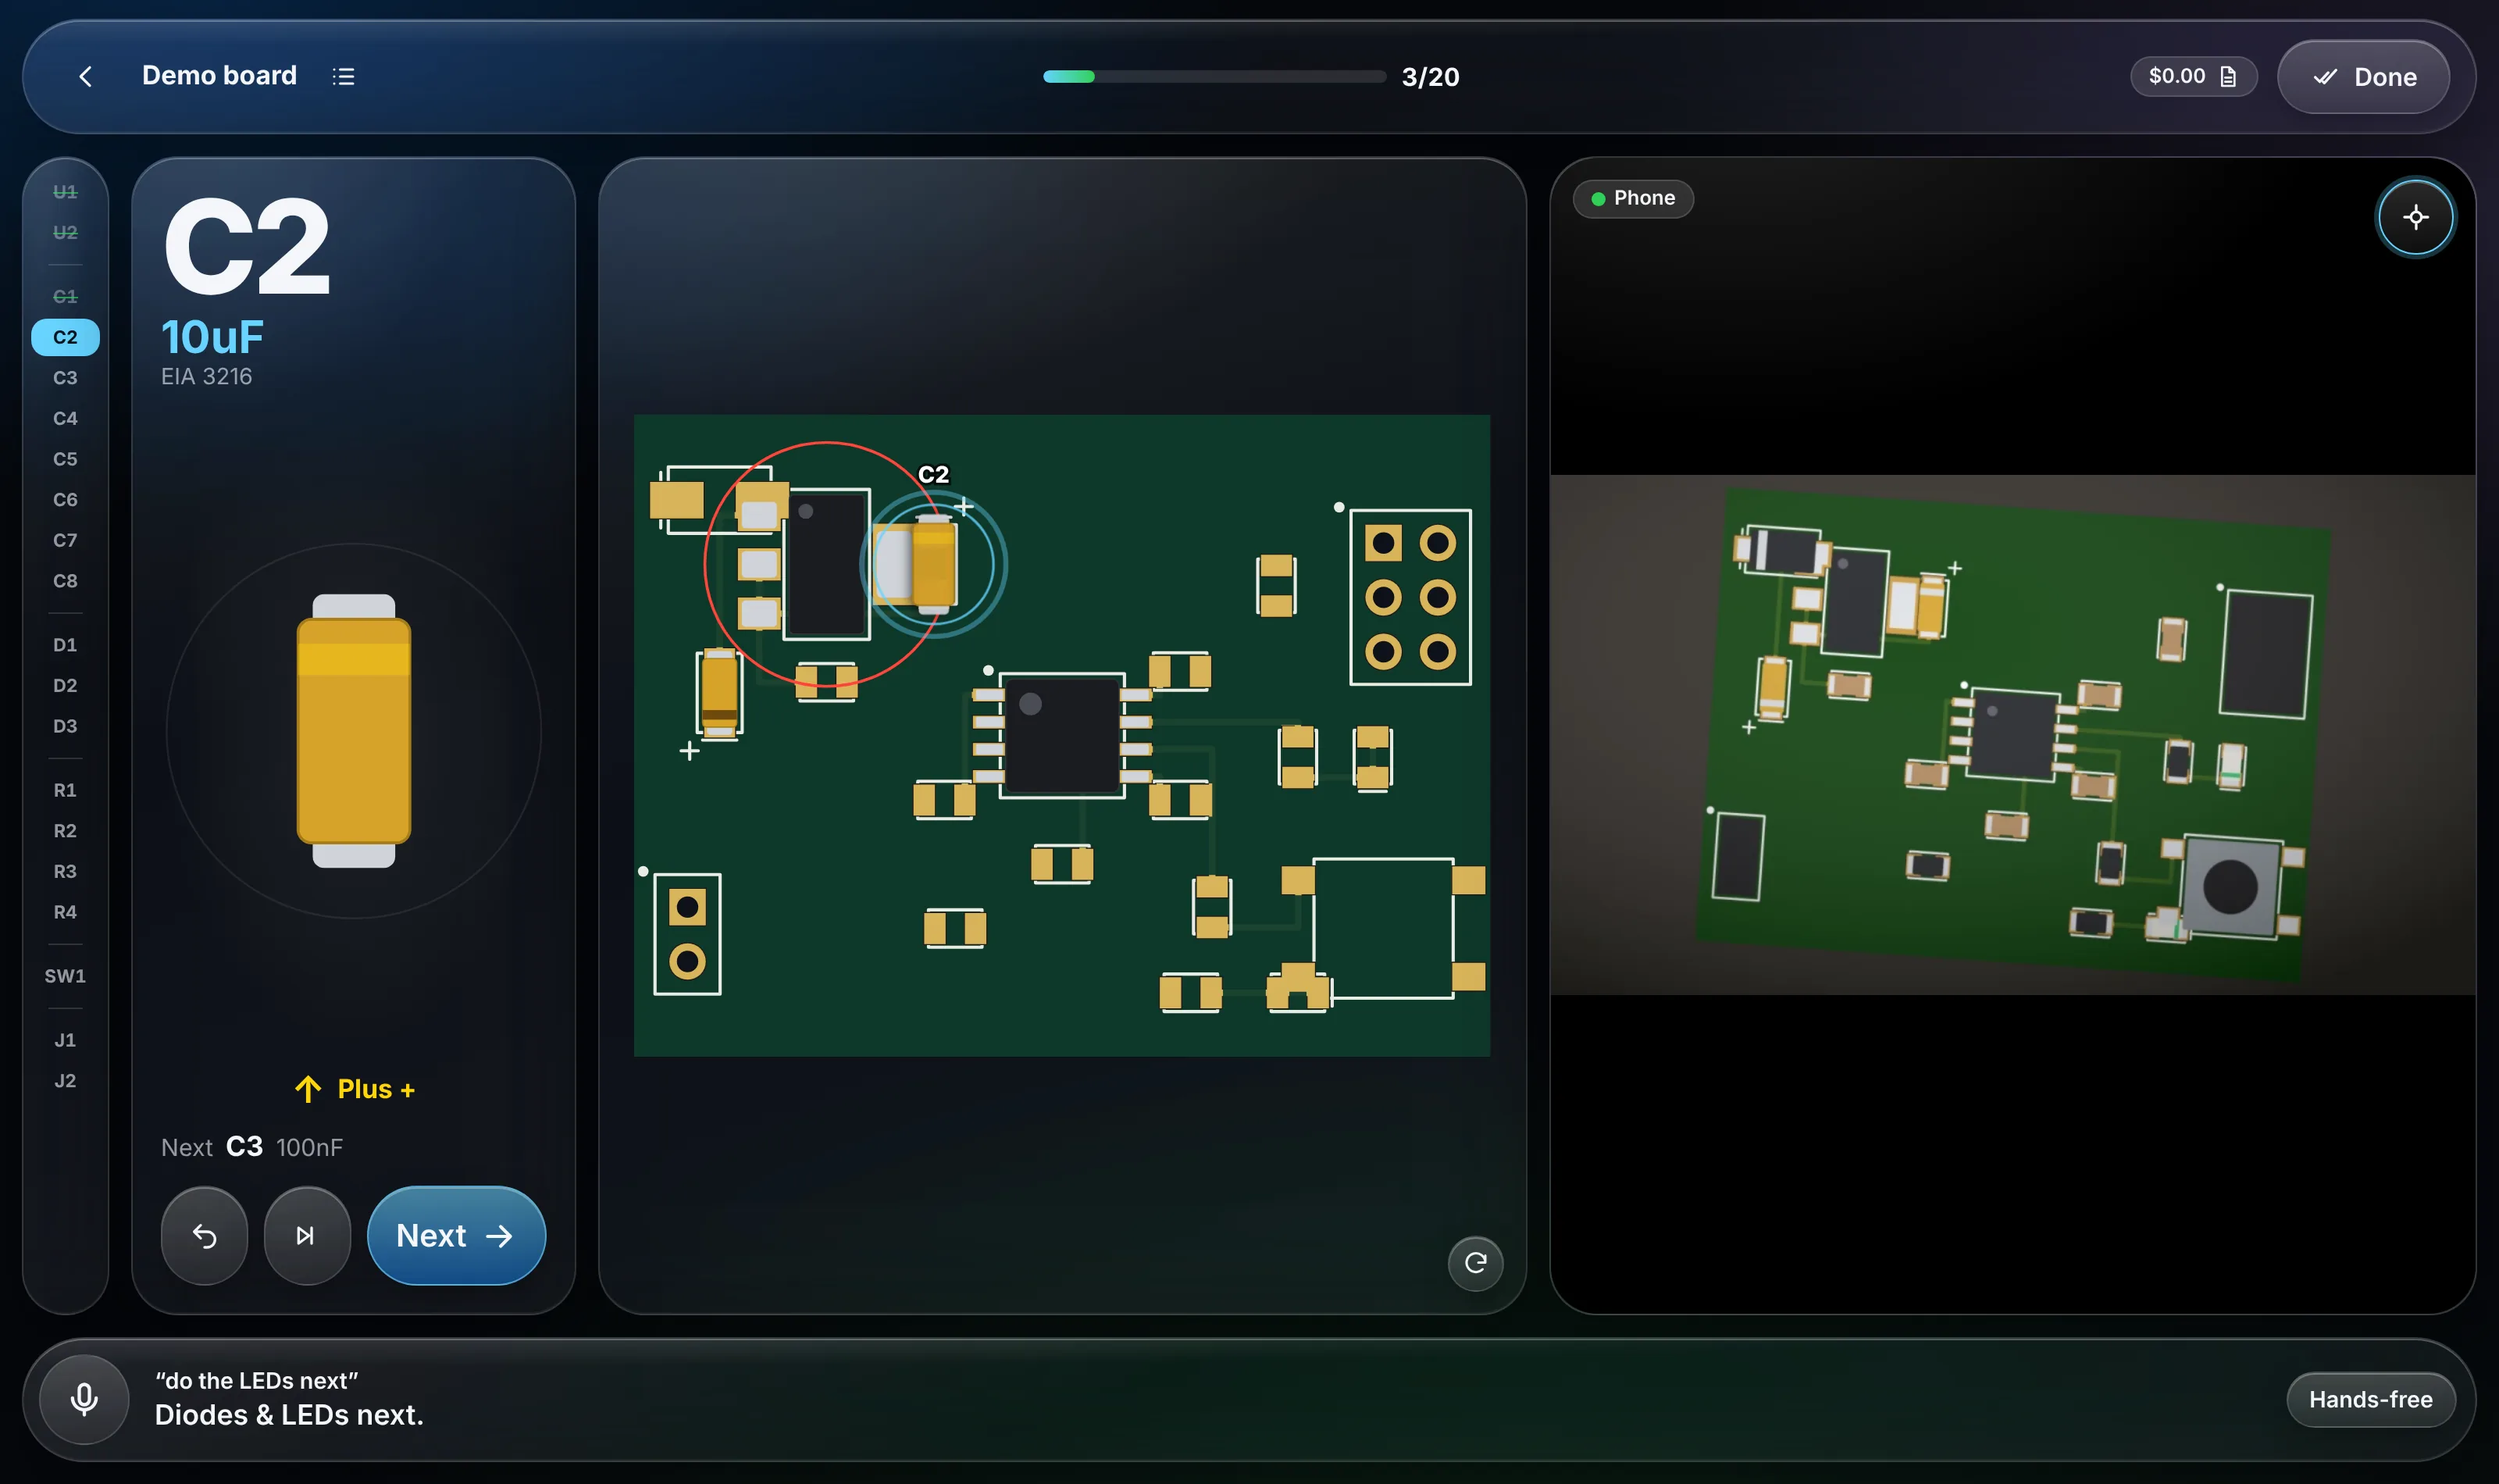
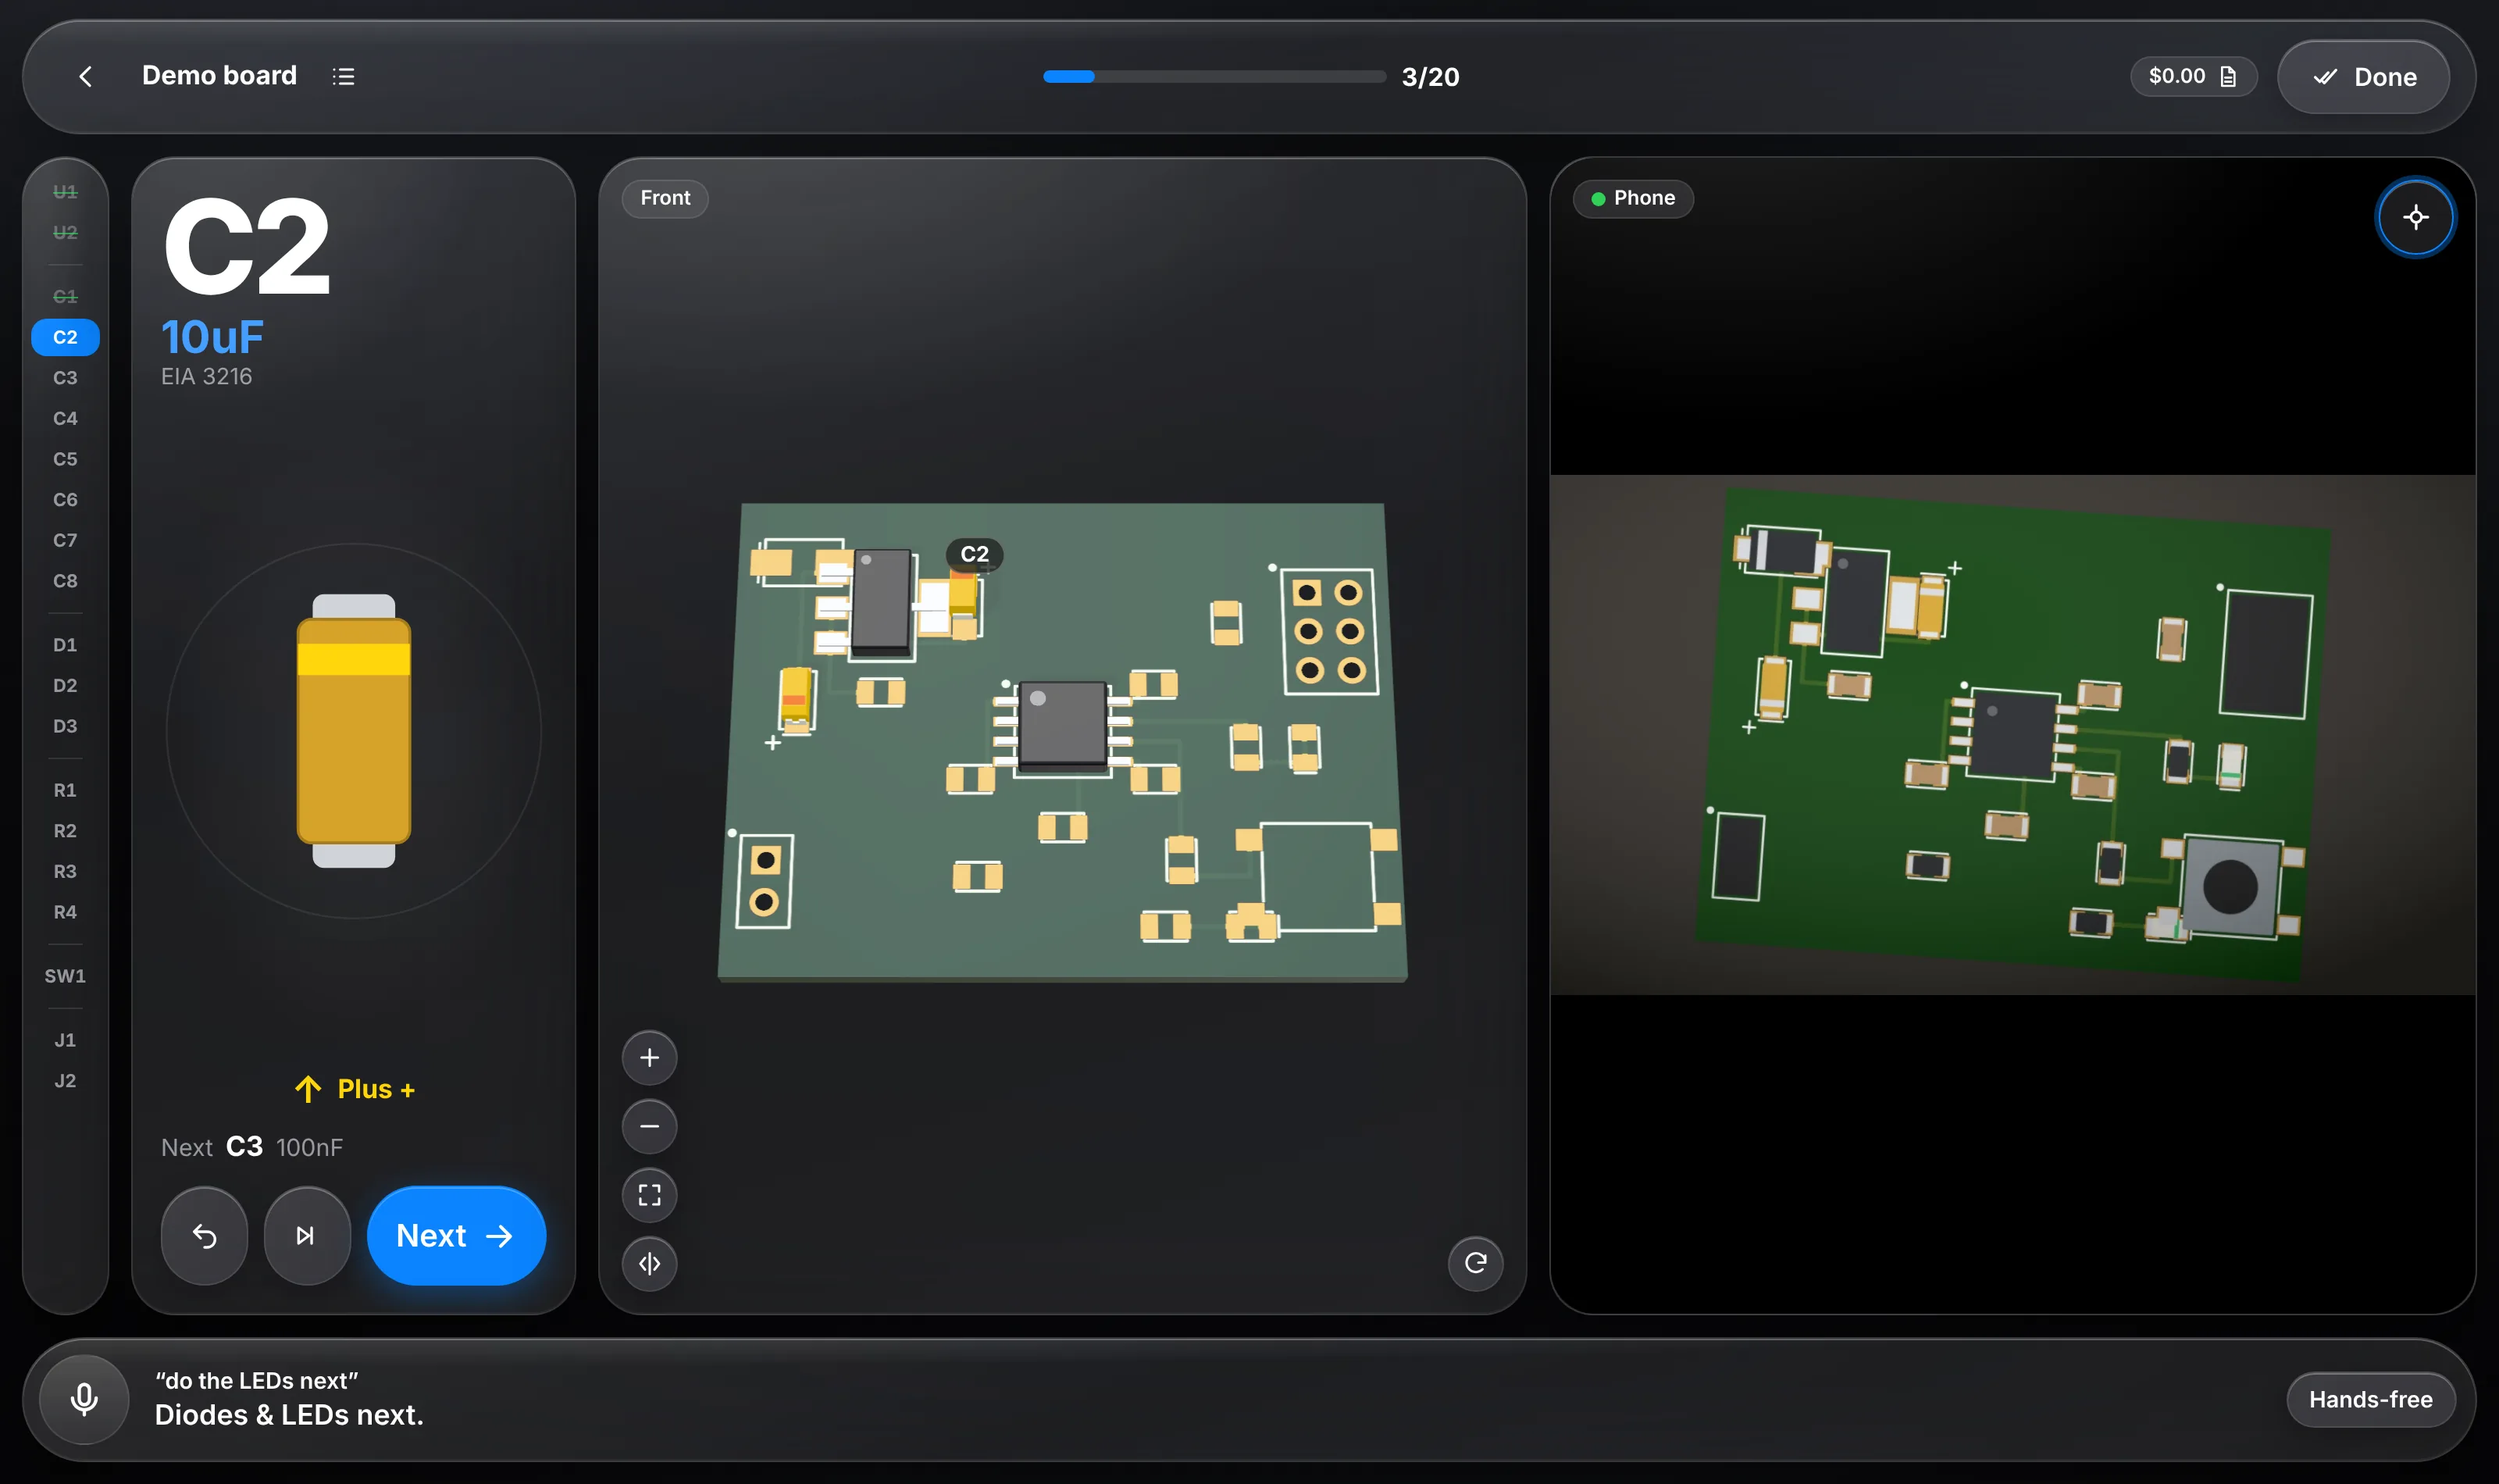
Refresh screenshots for the 3D board and new colours

diff --git a/docs/screenshots.md b/docs/screenshots.md
@@ -3,7 +3,7 @@
 The live app at https://crazyblackstone.github.io/assemblyassist/, captured in Chromium at 1600×950 (phone shots at iPhone 13 size).
 
 How these were made:
-- **Board:** the bundled demo project (ATtiny85 blinker, 20 parts, Gerbers included).
+- **Board:** the bundled demo project (ATtiny85 blinker, 20 parts, Gerbers included). The 3D view renders in software here; a laptop's GPU is smoother.
 - **Camera:** a second browser acts as the phone and is paired with the laptop through the real pairing server. Its "camera" is a picture of the demo board, rendered from the demo Gerbers and tilted 4°.
 - **AI:** no key is configured, so AI results are simulated and labeled **SIM**. With a key they show **AI**, and real verdicts and costs.
 - **Voice:** a scripted recognizer stands in for the microphone.
@@ -42,9 +42,15 @@ The camera panel shows the pairing QR code until a phone connects.
 
 - **Rail:** the build order as ref des.
 - **Panel 1:** the current part, its package drawn as it sits on the board with the pin-1 dot lit, an arrow pointing to the mark, the next part, and Back / Skip / Next.
-- **Panel 2:** the board from the Gerbers, with the current part hovering in place.
+- **Panel 2:** the board in 3D, textured from the Gerbers, with the current part hovering over its spot.
 - **Panel 3:** the phone's camera.
 - **Bottom bar:** a placement tip for the package type.
+
+### Zooming into the board
+
+![Zoomed board](screenshots/06b-board-zoom.webp)
+
+Scroll or pinch to zoom, drag to pan, double-tap a part to zoom on it, or say "zoom in" / "zoom on U1". The + / − / fit buttons do the same, and the last button flips to the back.
 
 ### Camera calibration
 
@@ -78,7 +84,11 @@ Anything else goes to the language model. Answers cite the technique-library ent
 
 ![Order drawer](screenshots/13-order-drawer.webp)
 
-Tapping the rail opens the full list, where parts and categories can be dragged mid-build.
+Tapping the rail opens the full list, where parts and categories can be dragged mid-build. On two-sided boards the list has Front and Back sections and a button to build the other side first.
+
+![Board tilted](screenshots/13b-board-tilted.webp)
+
+Placed parts are modelled at their real size: package length, width and seated height from the footprint name, a datasheet table, or the netlist's pads. Footprints from the KiCad library load KiCad's own 3D model.
 
 ### Done: review every part
 
